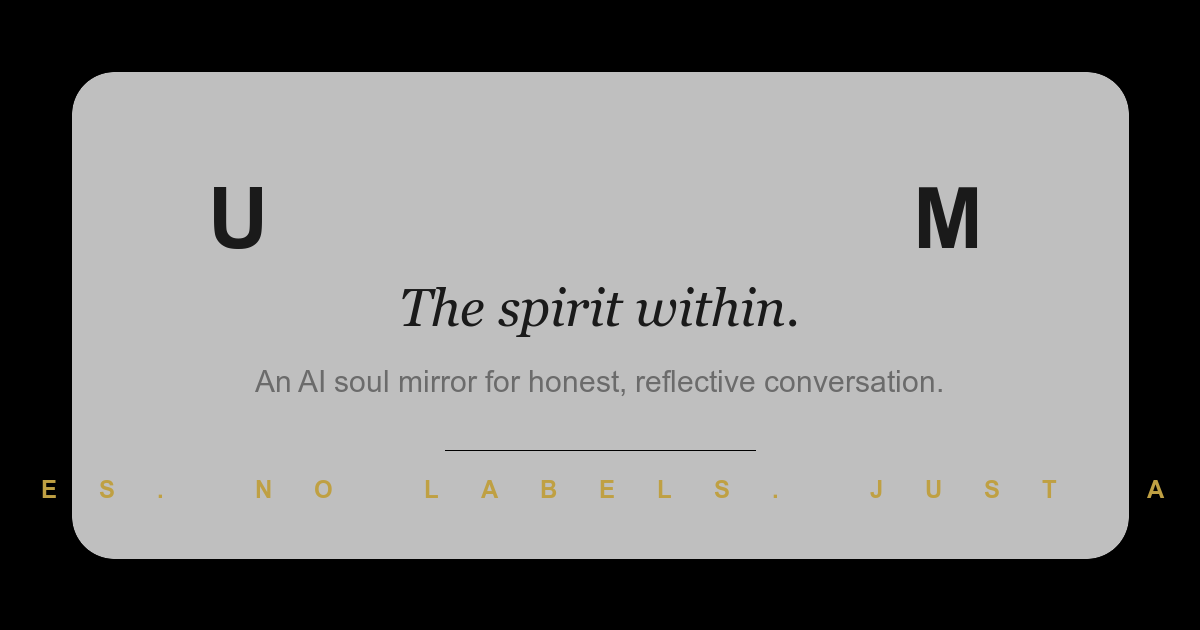
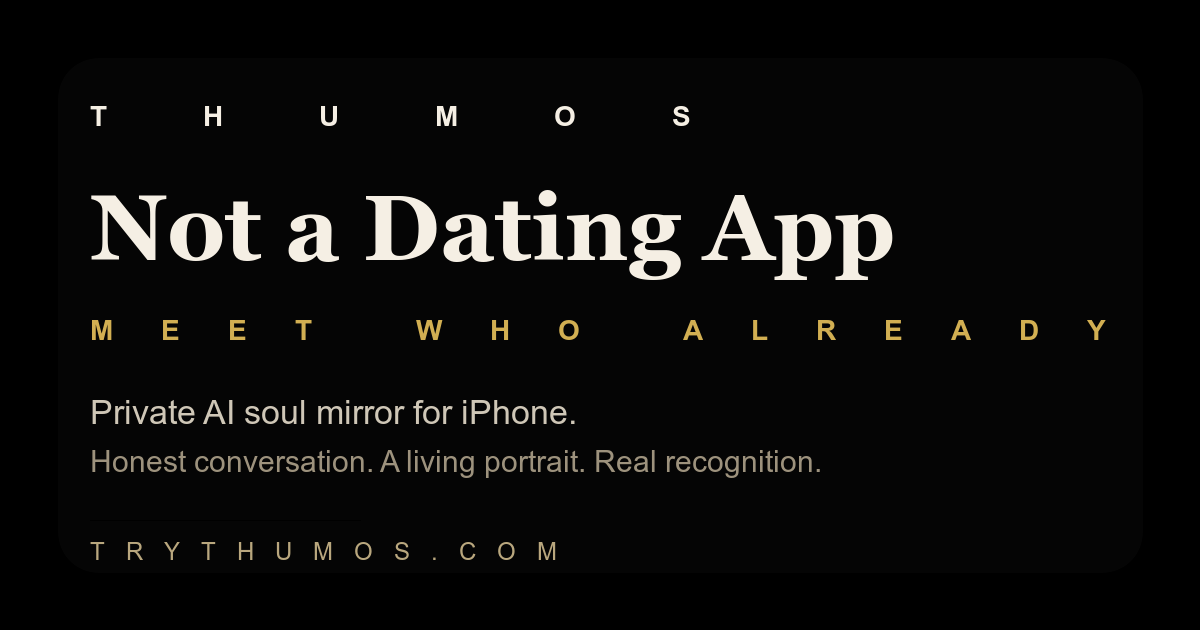
Refresh Thumos positioning and SEO

diff --git a/web/index.html b/web/index.html
@@ -3,39 +3,41 @@
   <head>
     <meta charset="utf-8" />
     <meta name="viewport" content="width=device-width, initial-scale=1" />
-    <title>THUMOS | Private AI Soul Mirror for iPhone</title>
+    <title>Thumos - Not a Dating App | Meet who already gets you</title>
+    <meta name="application-name" content="Thumos" />
+    <meta name="apple-mobile-web-app-title" content="Thumos" />
     <meta
       name="description"
-      content="THUMOS is a private AI soul mirror for iPhone. Honest conversation reveals your soul and builds a living portrait over time."
+      content="Thumos - Not a Dating App is a private AI soul mirror for iPhone. Honest conversation helps you understand yourself and meet who already gets you."
     />
     <meta name="robots" content="index,follow,max-image-preview:large" />
     <meta name="theme-color" content="#000000" />
     <meta property="og:type" content="website" />
-    <meta property="og:site_name" content="THUMOS" />
+    <meta property="og:site_name" content="Thumos" />
     <meta property="og:locale" content="en_US" />
-    <meta property="og:title" content="THUMOS | Private AI Soul Mirror for iPhone" />
+    <meta property="og:title" content="Thumos - Not a Dating App | Meet who already gets you" />
     <meta
       property="og:description"
-      content="Private AI reflection for iPhone. Honest conversation reveals your soul and builds a living portrait over time."
+      content="Not a dating app. A private AI soul mirror for iPhone that helps you meet who already gets you."
     />
     <meta property="og:image" content="https://trythumos.com/assets/og-image.png" />
     <meta property="og:image:width" content="1200" />
     <meta property="og:image:height" content="630" />
     <meta
       property="og:image:alt"
-      content="THUMOS, a private AI soul mirror for iPhone"
+      content="Social preview for Thumos - Not a Dating App"
     />
     <meta property="og:url" content="https://trythumos.com/" />
     <meta name="twitter:card" content="summary_large_image" />
-    <meta name="twitter:title" content="THUMOS | Private AI Soul Mirror for iPhone" />
+    <meta name="twitter:title" content="Thumos - Not a Dating App | Meet who already gets you" />
     <meta
       name="twitter:description"
-      content="Private AI reflection for iPhone. Honest conversation reveals your soul and builds a living portrait over time."
+      content="Not a dating app. A private AI soul mirror for iPhone that helps you meet who already gets you."
     />
     <meta name="twitter:image" content="https://trythumos.com/assets/og-image.png" />
     <meta
       name="twitter:image:alt"
-      content="THUMOS, a private AI soul mirror for iPhone"
+      content="Social preview for Thumos - Not a Dating App"
     />
     <link rel="canonical" href="https://trythumos.com/" />
     <link rel="icon" type="image/png" sizes="32x32" href="/assets/favicon-32x32.png" />
@@ -57,17 +59,17 @@
             "@type": "WebSite",
             "@id": "https://trythumos.com/#website",
             "url": "https://trythumos.com/",
-            "name": "THUMOS",
-            "alternateName": "Thumos",
-            "description": "A private AI soul mirror for iPhone."
+            "name": "Thumos",
+            "alternateName": "Thumos - Not a Dating App",
+            "description": "Not a dating app. A private AI soul mirror for iPhone."
           },
           {
             "@type": "SoftwareApplication",
             "name": "THUMOS - The Soul Mirror",
-            "alternateName": "THUMOS",
+            "alternateName": "Thumos - Not a Dating App",
             "applicationCategory": "LifestyleApplication",
             "operatingSystem": "iOS 17.0 or later",
-            "description": "A private AI soul mirror for iPhone. Honest conversation reveals your soul and builds a living portrait over time.",
+            "description": "A private AI soul mirror for iPhone. Honest conversation helps you understand yourself and meet who already gets you.",
             "url": "https://trythumos.com/",
             "sameAs": "https://apps.apple.com/us/app/thumos-the-soul-mirror/id6761300301",
             "downloadUrl": "https://apps.apple.com/us/app/thumos-the-soul-mirror/id6761300301",
@@ -95,7 +97,7 @@
           <img class="brand-icon" src="/assets/app-icon.png" alt="" width="72" height="72" />
           <div class="brand-text">
             <p class="wordmark">THUMOS</p>
-            <p class="brand-caption">Private soul mirror for iPhone</p>
+            <p class="brand-caption">Meet who already gets you</p>
           </div>
         </a>
 
@@ -108,7 +110,8 @@
       <main class="home-main">
         <section class="hero-panel">
           <div class="hero-copy">
-            <h1 class="hero-title">Only the one matters.</h1>
+            <h1 class="hero-title">Thumos - Not a Dating App</h1>
+            <p class="hero-lead">Meet who already gets you</p>
 
             <div class="hero-actions">
               <a class="cta-button" href="https://apps.apple.com/us/app/thumos-the-soul-mirror/id6761300301">
@@ -123,7 +126,7 @@
 
             <div class="hero-meta" aria-label="Product highlights">
               <span>Private by default</span>
-              <span>AI soul mirror</span>
+              <span>Not a dating app</span>
               <span>iPhone only</span>
             </div>
           </div>

diff --git a/web/support.html b/web/support.html
@@ -6,7 +6,7 @@
     <title>THUMOS Support | Help, FAQ, and Data Deletion</title>
     <meta
       name="description"
-      content="Get help with THUMOS, including FAQ, privacy questions, app availability, and how to delete your data."
+      content="Get help with Thumos - Not a Dating App, including FAQ, privacy questions, app availability, and how to delete your data."
     />
     <meta name="robots" content="index,follow,max-image-preview:large" />
     <meta name="theme-color" content="#000000" />
@@ -16,21 +16,21 @@
     <meta property="og:title" content="THUMOS Support | Help, FAQ, and Data Deletion" />
     <meta
       property="og:description"
-      content="Get help with THUMOS, including FAQ, privacy questions, app availability, and how to delete your data."
+      content="Get help with Thumos - Not a Dating App, including FAQ, privacy questions, app availability, and how to delete your data."
     />
     <meta property="og:image" content="https://trythumos.com/assets/og-image.png" />
     <meta property="og:image:width" content="1200" />
     <meta property="og:image:height" content="630" />
-    <meta property="og:image:alt" content="THUMOS, a private AI soul mirror for iPhone" />
+    <meta property="og:image:alt" content="Social preview for Thumos - Not a Dating App" />
     <meta property="og:url" content="https://trythumos.com/support" />
     <meta name="twitter:card" content="summary_large_image" />
     <meta name="twitter:title" content="THUMOS Support | Help, FAQ, and Data Deletion" />
     <meta
       name="twitter:description"
-      content="Get help with THUMOS, including FAQ, privacy questions, app availability, and how to delete your data."
+      content="Get help with Thumos - Not a Dating App, including FAQ, privacy questions, app availability, and how to delete your data."
     />
     <meta name="twitter:image" content="https://trythumos.com/assets/og-image.png" />
-    <meta name="twitter:image:alt" content="THUMOS, a private AI soul mirror for iPhone" />
+    <meta name="twitter:image:alt" content="Social preview for Thumos - Not a Dating App" />
     <link rel="canonical" href="https://trythumos.com/support" />
     <link rel="icon" type="image/png" sizes="32x32" href="/assets/favicon-32x32.png" />
     <link rel="icon" type="image/png" sizes="16x16" href="/assets/favicon-16x16.png" />
@@ -51,7 +51,7 @@
             "@type": "WebPage",
             "name": "THUMOS Support",
             "url": "https://trythumos.com/support",
-            "description": "Get help with THUMOS, including FAQ, privacy questions, app availability, and how to delete your data."
+            "description": "Get help with Thumos - Not a Dating App, including FAQ, privacy questions, app availability, and how to delete your data."
           },
           {
             "@type": "BreadcrumbList",
@@ -110,9 +110,9 @@
           <article class="faq-card">
             <h2>What is Thumos?</h2>
             <p>
-              Thumos is a soul mirror - an AI that helps you understand who you really are through
-              honest, reflective conversation. Over time, it builds a living portrait called your
-              soul file.
+              Thumos is not a dating app. It is a private AI soul mirror that helps you understand
+              who you really are through honest, reflective conversation. Over time, it builds a
+              living portrait called your soul file.
             </p>
           </article>
 

diff --git a/web/privacy.html b/web/privacy.html
@@ -6,7 +6,7 @@
     <title>THUMOS Privacy Policy | Data, Storage, and Deletion</title>
     <meta
       name="description"
-      content="Learn what THUMOS collects, how conversation data and soul files are stored, and how to access or delete your data."
+      content="Learn what Thumos - Not a Dating App collects, how conversation data and soul files are stored, and how to access or delete your data."
     />
     <meta name="robots" content="index,follow,max-image-preview:large" />
     <meta name="theme-color" content="#000000" />
@@ -16,21 +16,21 @@
     <meta property="og:title" content="THUMOS Privacy Policy | Data, Storage, and Deletion" />
     <meta
       property="og:description"
-      content="Learn what THUMOS collects, how conversation data and soul files are stored, and how to access or delete your data."
+      content="Learn what Thumos - Not a Dating App collects, how conversation data and soul files are stored, and how to access or delete your data."
     />
     <meta property="og:image" content="https://trythumos.com/assets/og-image.png" />
     <meta property="og:image:width" content="1200" />
     <meta property="og:image:height" content="630" />
-    <meta property="og:image:alt" content="THUMOS, a private AI soul mirror for iPhone" />
+    <meta property="og:image:alt" content="Social preview for Thumos - Not a Dating App" />
     <meta property="og:url" content="https://trythumos.com/privacy" />
     <meta name="twitter:card" content="summary_large_image" />
     <meta name="twitter:title" content="THUMOS Privacy Policy | Data, Storage, and Deletion" />
     <meta
       name="twitter:description"
-      content="Learn what THUMOS collects, how conversation data and soul files are stored, and how to access or delete your data."
+      content="Learn what Thumos - Not a Dating App collects, how conversation data and soul files are stored, and how to access or delete your data."
     />
     <meta name="twitter:image" content="https://trythumos.com/assets/og-image.png" />
-    <meta name="twitter:image:alt" content="THUMOS, a private AI soul mirror for iPhone" />
+    <meta name="twitter:image:alt" content="Social preview for Thumos - Not a Dating App" />
     <link rel="canonical" href="https://trythumos.com/privacy" />
     <link rel="icon" type="image/png" sizes="32x32" href="/assets/favicon-32x32.png" />
     <link rel="icon" type="image/png" sizes="16x16" href="/assets/favicon-16x16.png" />
@@ -51,7 +51,7 @@
             "@type": "WebPage",
             "name": "THUMOS Privacy Policy",
             "url": "https://trythumos.com/privacy",
-            "description": "Learn what THUMOS collects, how conversation data and soul files are stored, and how to access or delete your data."
+            "description": "Learn what Thumos - Not a Dating App collects, how conversation data and soul files are stored, and how to access or delete your data."
           },
           {
             "@type": "BreadcrumbList",
@@ -94,8 +94,8 @@
         <h1>THUMOS Privacy Policy</h1>
         <p class="legal-meta">Effective date: March 27, 2026</p>
         <p class="lead">
-          THUMOS is an AI soul mirror for iPhone. This page explains what data we collect, how we
-          use it, and how to access or delete it.
+          Thumos is not a dating app. It is a private AI soul mirror for iPhone. This page
+          explains what data we collect, how we use it, and how to access or delete it.
         </p>
 
         <section class="legal-section">

diff --git a/web/style.css b/web/style.css
@@ -289,11 +289,11 @@ a {
 .hero-title {
   margin: 0;
   font-family: var(--font-serif);
-  font-size: clamp(3.75rem, 8vw, 6.8rem);
+  font-size: clamp(3.15rem, 7vw, 5.85rem);
   font-weight: 700;
   line-height: 0.86;
   letter-spacing: -0.05em;
-  max-width: 8ch;
+  max-width: 10.5ch;
   text-wrap: balance;
 }
 
@@ -858,7 +858,7 @@ a {
   }
 
   .hero-title {
-    font-size: clamp(3.05rem, 14vw, 4.2rem);
+    font-size: clamp(2.7rem, 12vw, 3.9rem);
   }
 
   .hero-panel,